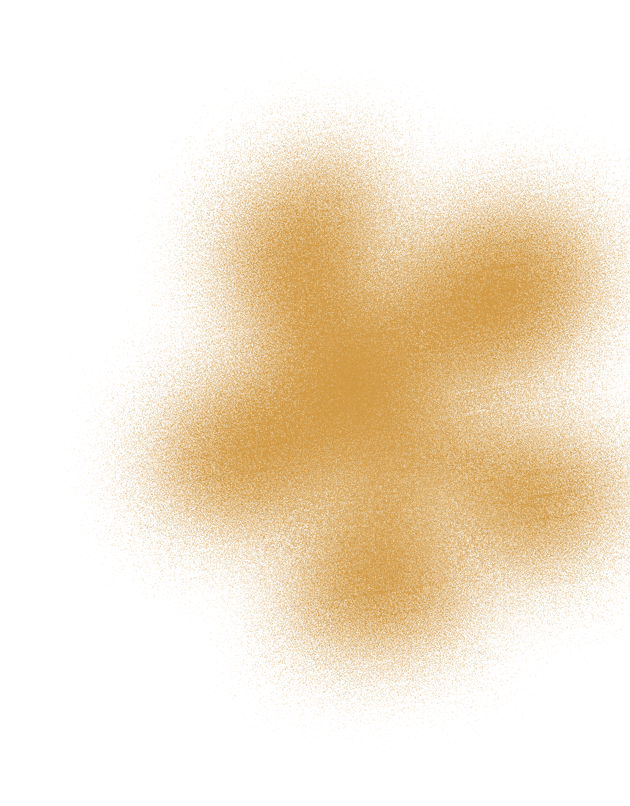
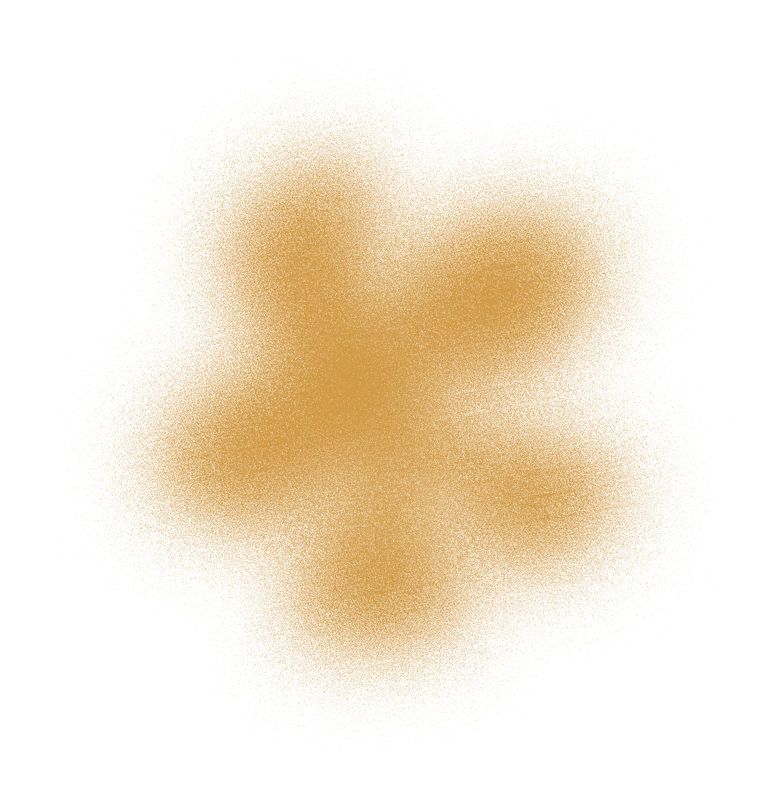
Replaced spray particles with dust PNG images

diff --git a/script.js b/script.js
@@ -196,6 +196,14 @@ const sprayCtx = sprayCanvas.getContext('2d');
 let sprayParticles = [];
 let sprayAnimId = null;
 
+// Preload dust images for spray particles
+const sprayDustSources = ['assets/yellow dust.png', 'assets/pink dust.png', 'assets/blue dust.png'];
+const sprayDustImgs = sprayDustSources.map((src) => {
+  const img = new Image();
+  img.src = src;
+  return img;
+});
+
 function resizeSprayCanvas() {
   const dpr = window.devicePixelRatio || 1;
   sprayCanvas.width = window.innerWidth * dpr;
@@ -208,8 +216,8 @@ function createSprayParticle(originX, originY, angle, opts = {}) {
     arcSpread = 0.6,
     minSpeed = 6,
     maxSpeed = 18,
-    sizeMin = 1,
-    sizeMax = 3.5,
+    sizeMin = 8,
+    sizeMax = 22,
     alphaMin = 0.72,
     alphaMax = 1,
     gravityMin = 0.08,
@@ -225,7 +233,6 @@ function createSprayParticle(originX, originY, angle, opts = {}) {
   const speed = minSpeed + Math.random() * (maxSpeed - minSpeed);
   const spread = (Math.random() - 0.5) * arcSpread;
   const finalAngle = angle + spread;
-  const colors = ['#00BCD4', '#4FC3F7', '#B3E5FC', '#E0F7FA', '#26C6DA'];
 
   return {
     x: originX,
@@ -233,7 +240,7 @@ function createSprayParticle(originX, originY, angle, opts = {}) {
     vx: Math.cos(finalAngle) * speed,
     vy: Math.sin(finalAngle) * speed,
     size: sizeMin + Math.random() * (sizeMax - sizeMin),
-    color: colors[Math.floor(Math.random() * colors.length)],
+    img: sprayDustImgs[Math.floor(Math.random() * sprayDustImgs.length)],
     alpha: alphaMin + Math.random() * (alphaMax - alphaMin),
     gravity: gravityMin + Math.random() * (gravityMax - gravityMin),
     friction,
@@ -264,20 +271,14 @@ function animateSpray() {
     if (p.life <= 0) { sprayParticles.splice(i, 1); continue; }
 
     sprayCtx.globalAlpha = p.alpha;
-    sprayCtx.fillStyle = p.color;
 
-    if (p.stretch > 1.05) {
-      const angle = Math.atan2(p.vy, p.vx);
-      sprayCtx.save();
-      sprayCtx.translate(p.x, p.y);
-      sprayCtx.rotate(angle);
-      sprayCtx.beginPath();
-      sprayCtx.ellipse(0, 0, p.size, p.size * p.stretch, 0, 0, Math.PI * 2);
-      sprayCtx.fill();
-      sprayCtx.restore();
+    if (p.img && p.img.complete && p.img.naturalWidth > 0) {
+      const s = p.size;
+      sprayCtx.drawImage(p.img, p.x - s / 2, p.y - s / 2, s, s);
     } else {
+      sprayCtx.fillStyle = '#E91E63';
       sprayCtx.beginPath();
-      sprayCtx.arc(p.x, p.y, p.size, 0, Math.PI * 2);
+      sprayCtx.arc(p.x, p.y, p.size / 2, 0, Math.PI * 2);
       sprayCtx.fill();
     }
   }
